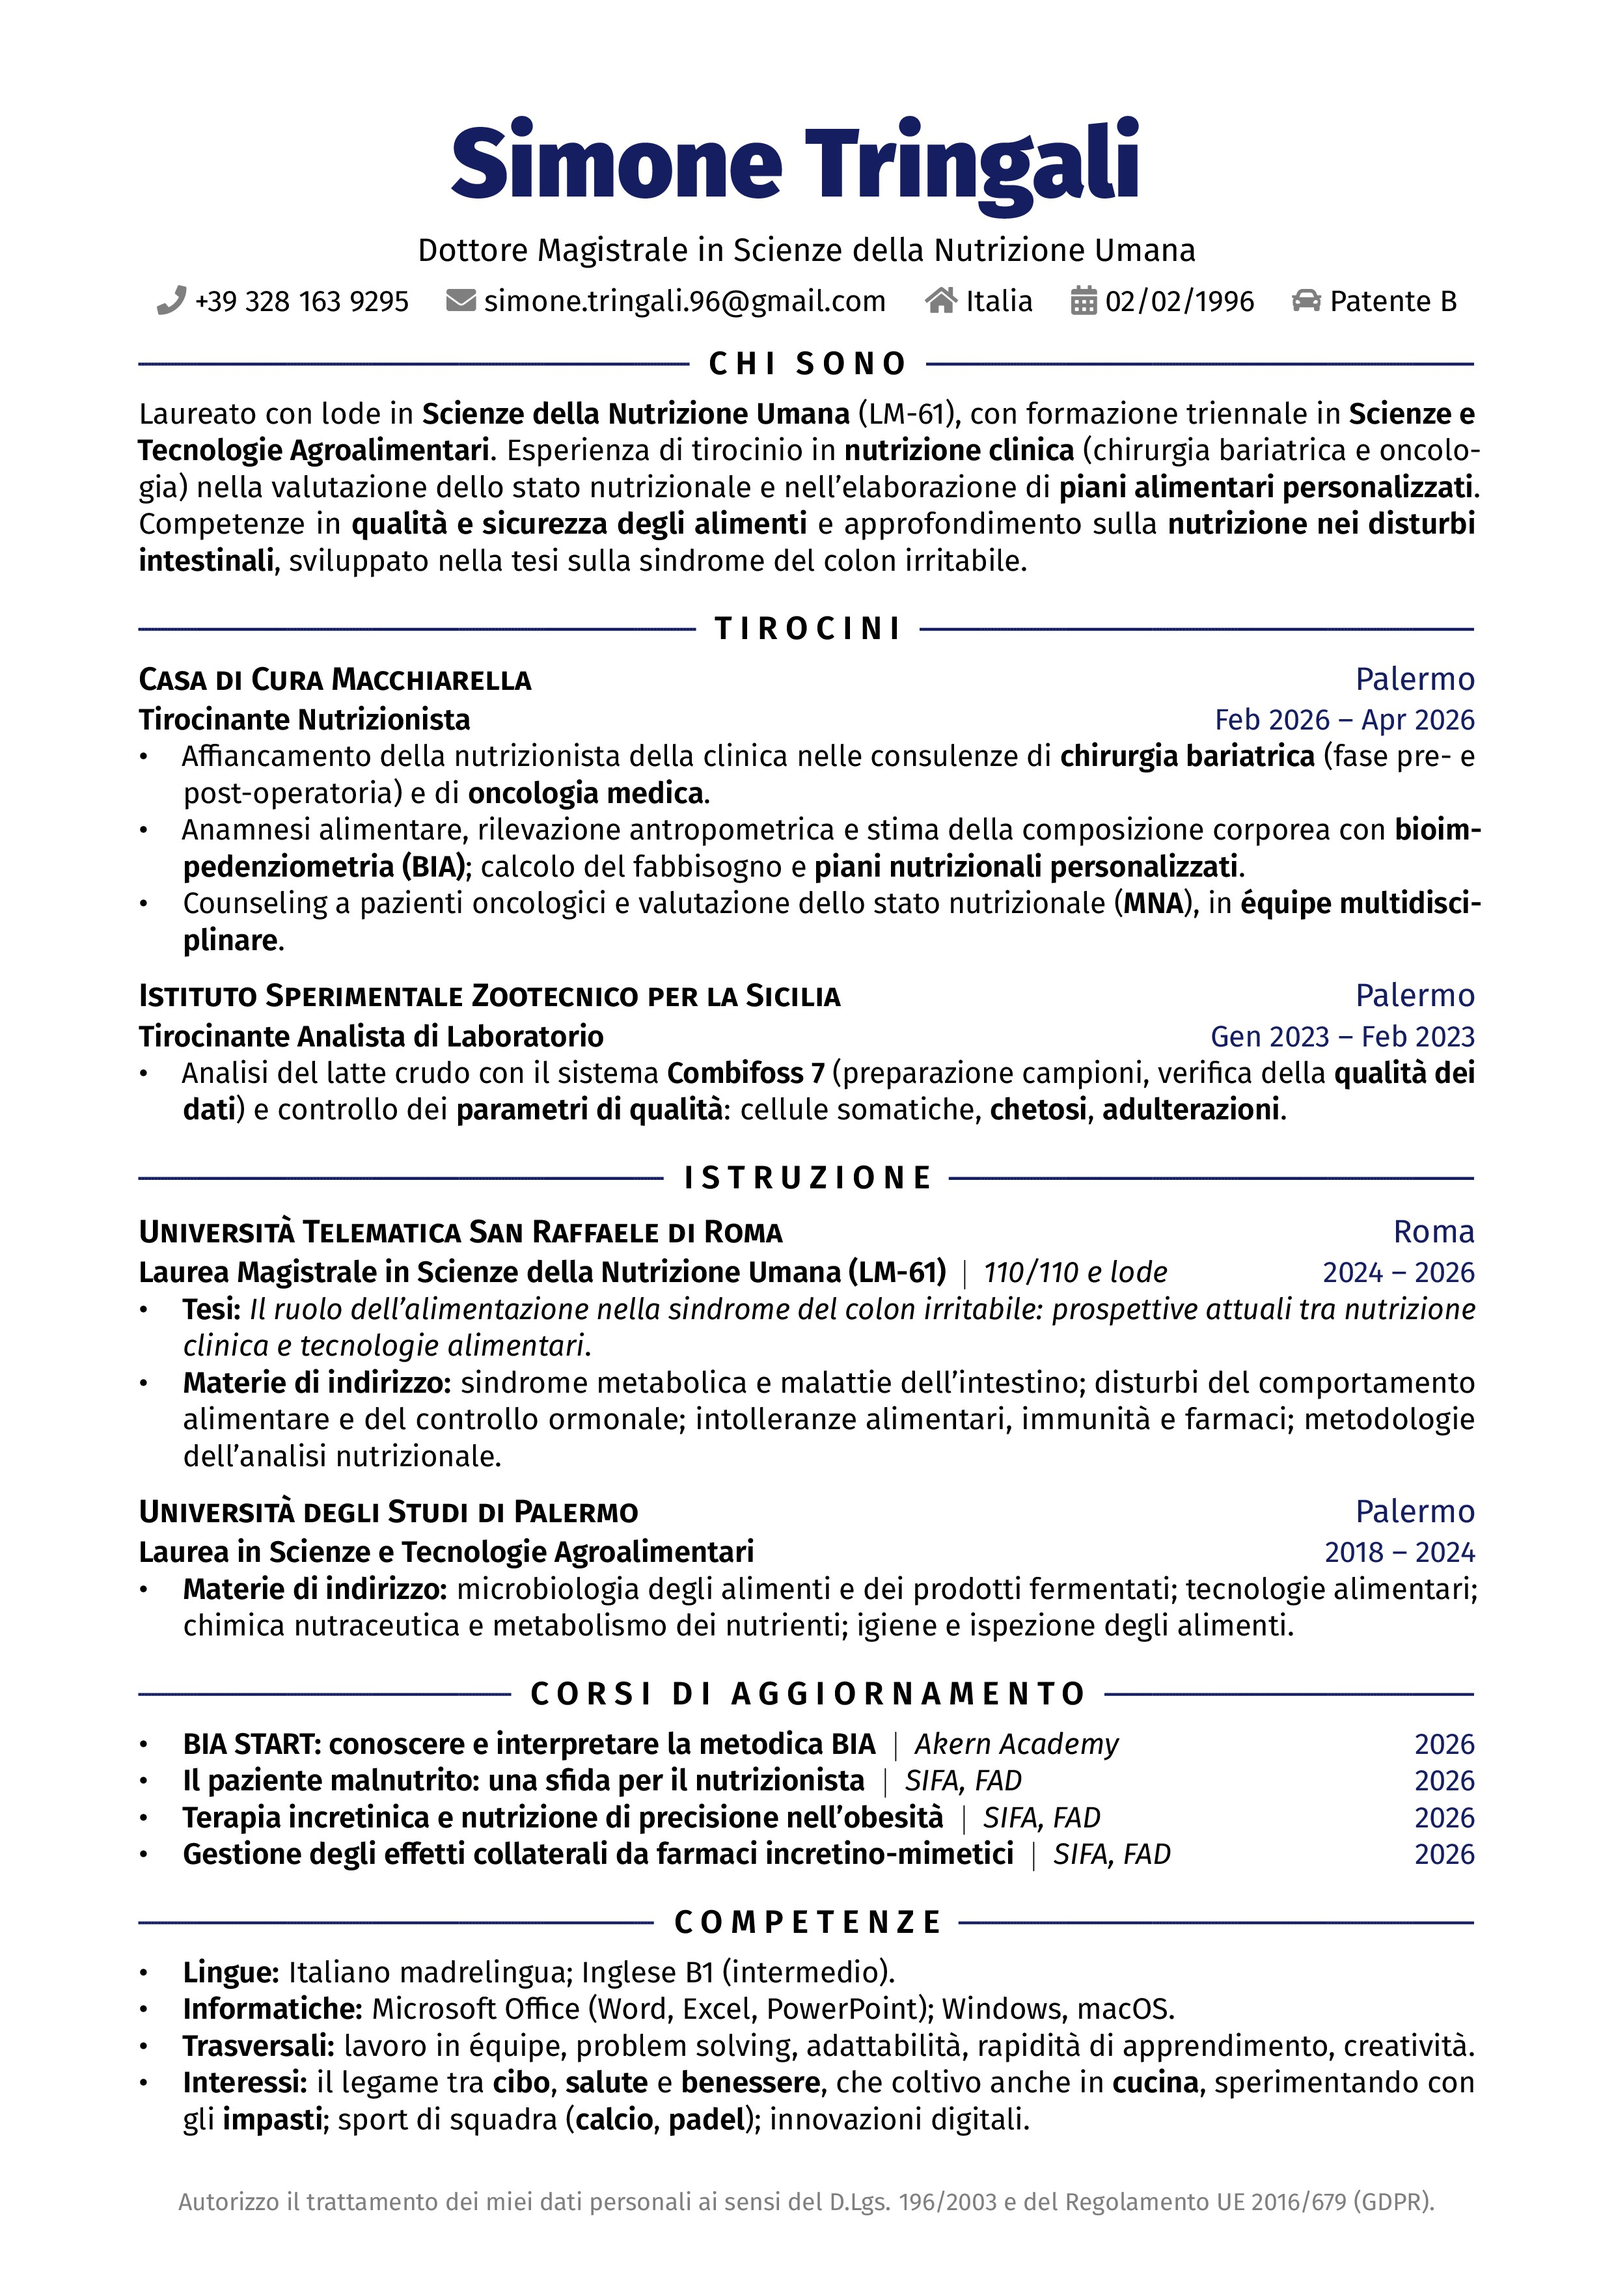
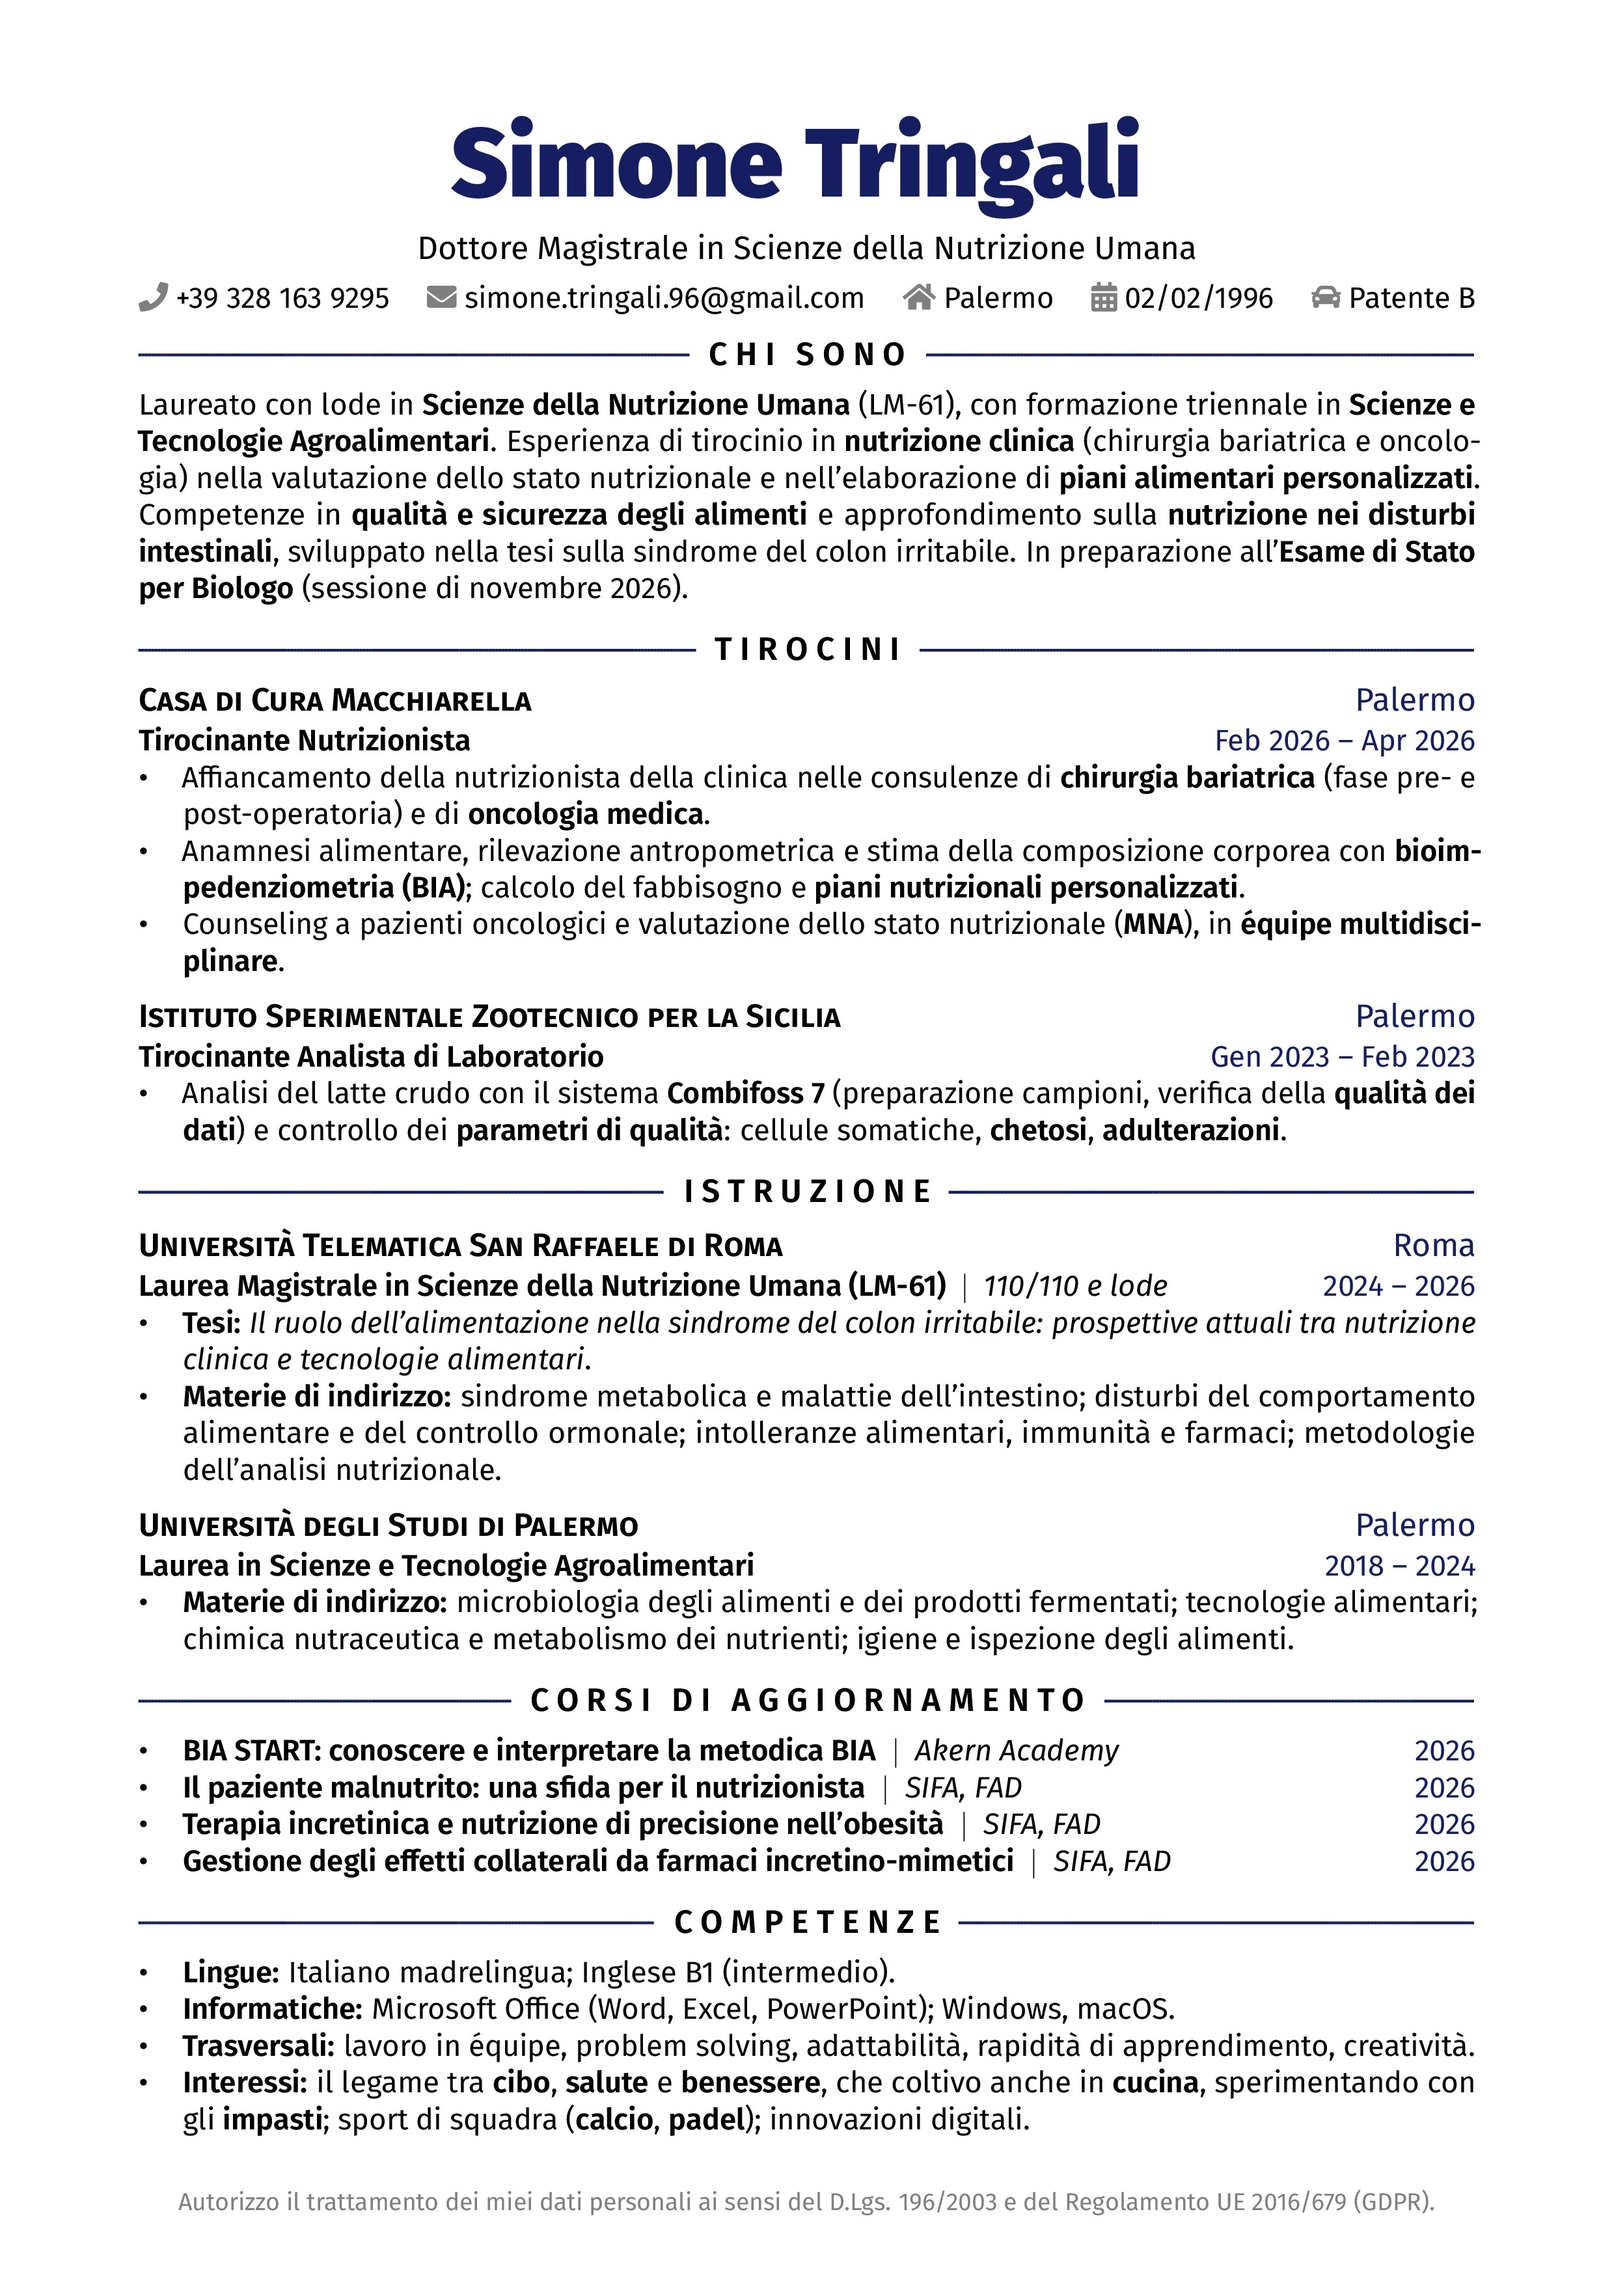
Aggiunto Esame di Stato per Biologo e città Palermo

Changed region(s): [[0.0621, 0.0932, 0.9315, 0.8389], [0.8694, 0.7457, 0.9315, 0.8389]]

diff --git a/Simone_Tringali_CV_ITA.tex b/Simone_Tringali_CV_ITA.tex
@@ -42,7 +42,7 @@
 }
 
 \usepackage{titlesec}
-\titlespacing{\section}{0pt}{*2.5}{*1}
+\titlespacing{\section}{0pt}{*2}{*1}
 \titlespacing{\subsection}{0pt}{*1.5}{*0}
 \titlespacing{\subsubsection}{0pt}{*0}{*0}
 \titleformat{\section}{\large\bfseries\uppercase}{}{}{\midrule}
@@ -102,7 +102,7 @@
 
   \href{tel:+393281639295}{{\color{gray}{\faPhone}} +39 328 163 9295} \quad
   \href{mailto:simone.tringali.96@gmail.com}{{\color{gray}{\faEnvelope}} simone.tringali.96@gmail.com} \quad
-  {\color{gray}{\faHome}} Italia \quad
+  {\color{gray}{\faHome}} Palermo \quad
   {\color{gray}{\faCalendar*}} 02/02/1996 \quad
   {\color{gray}{\faCar}} Patente B
 \end{center}
@@ -112,7 +112,7 @@
 
 \section{Chi sono}
 %==========
-\noindent Laureato con lode in \textbf{Scienze della Nutrizione Umana} (LM-61), con formazione triennale in \textbf{Scienze e Tecnologie Agroalimentari}. Esperienza di tirocinio in \textbf{nutrizione clinica} (chirurgia bariatrica e oncologia) nella valutazione dello stato nutrizionale e nell'elaborazione di \textbf{piani alimentari personalizzati}. Competenze in \textbf{qualità e sicurezza degli alimenti} e approfondimento sulla \textbf{nutrizione nei disturbi intestinali}, sviluppato nella tesi sulla sindrome del colon irritabile.
+\noindent Laureato con lode in \textbf{Scienze della Nutrizione Umana} (LM-61), con formazione triennale in \textbf{Scienze e Tecnologie Agroalimentari}. Esperienza di tirocinio in \textbf{nutrizione clinica} (chirurgia bariatrica e oncologia) nella valutazione dello stato nutrizionale e nell'elaborazione di \textbf{piani alimentari personalizzati}. Competenze in \textbf{qualità e sicurezza degli alimenti} e approfondimento sulla \textbf{nutrizione nei disturbi intestinali}, sviluppato nella tesi sulla sindrome del colon irritabile. In preparazione all'\textbf{Esame di Stato per Biologo} (sessione di novembre 2026).
 
 \section{Tirocini}
 %==========
